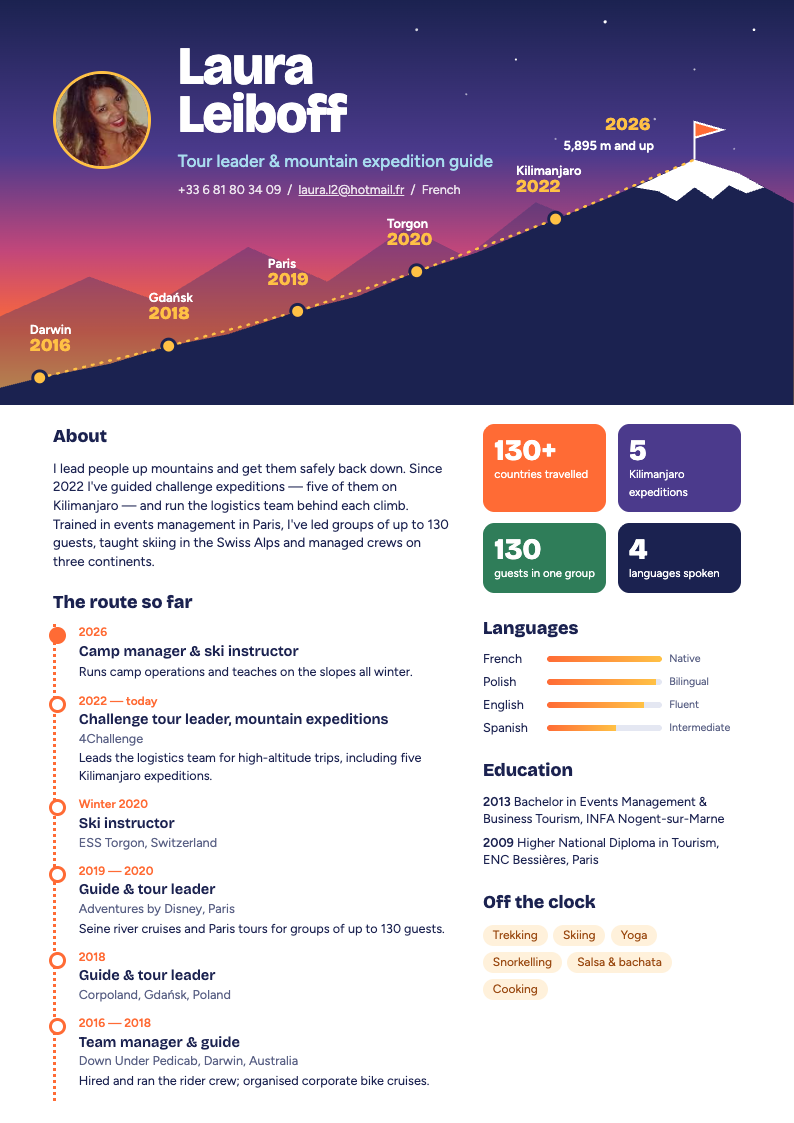
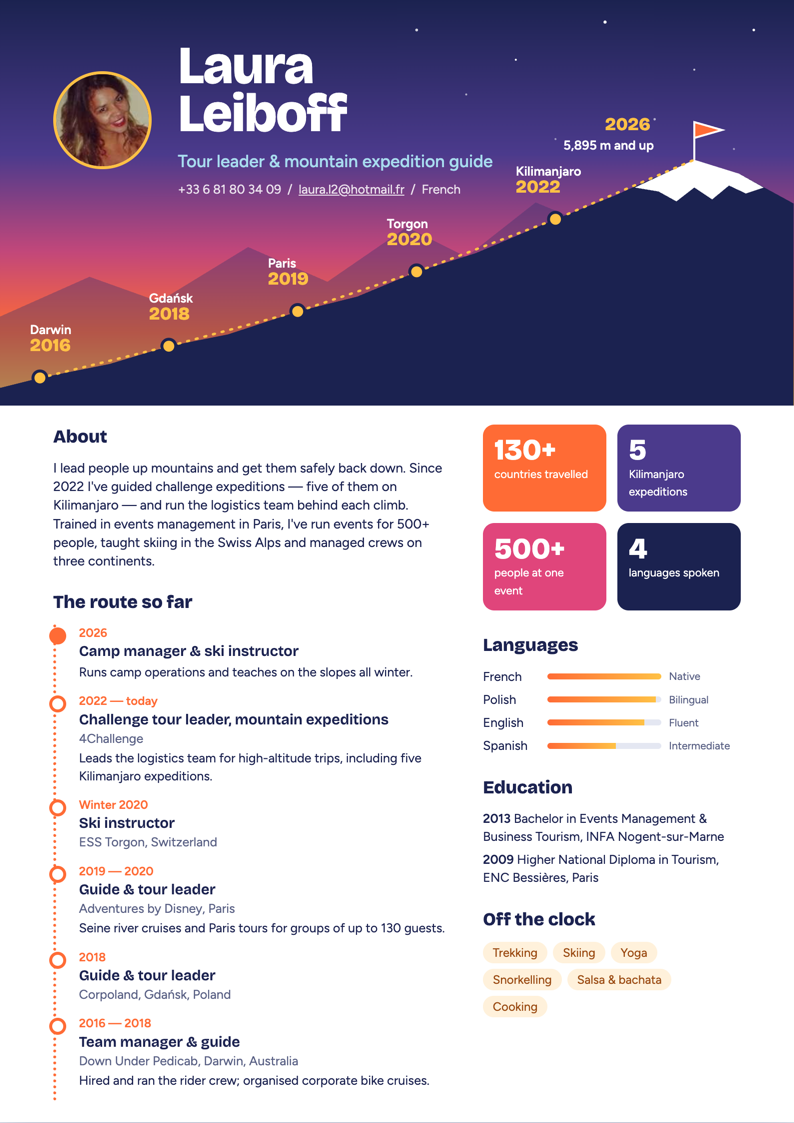
Update Claude CV stats and remove old working copy
Swap the "130 guests" stat for "500+ people at one event" (pink tile in
Summit), update the about copy to match, and refresh the gallery previews.
Drop cv-claude-version/, now duplicated by cv-designs/claude/, keeping the
original 2020 CV PDF in source/.

diff --git a/claude/1-summit.html b/claude/1-summit.html
@@ -14,7 +14,7 @@
     --sunrise: #FF6B35;
     --savanna: #FFC145;
     --glacier: #A8DCEF;
-    --acacia: #2F7D59;
+    --pink: #E0457B;
     --ink: #1B2250;
     --muted: #5A6185;
     --paper: #FFFFFF;
@@ -109,7 +109,7 @@
   }
   .stat:nth-child(1) { background: var(--sunrise); }
   .stat:nth-child(2) { background: var(--dusk); }
-  .stat:nth-child(3) { background: var(--acacia); }
+  .stat:nth-child(3) { background: var(--pink); }
   .stat:nth-child(4) { background: var(--night); }
   .stat b { display: block; font-family: "Bricolage Grotesque", sans-serif; font-size: 22pt; line-height: 1; }
   .stat span { font-size: 8.5pt; }
@@ -188,7 +188,7 @@
   <div class="body">
     <section>
       <h2>About</h2>
-      <p class="about">I lead people up mountains and get them safely back down. Since 2022 I've guided challenge expeditions — five of them on Kilimanjaro — and run the logistics team behind each climb. Trained in events management in Paris, I've led groups of up to 130 guests, taught skiing in the Swiss Alps and managed crews on three continents.</p>
+      <p class="about">I lead people up mountains and get them safely back down. Since 2022 I've guided challenge expeditions — five of them on Kilimanjaro — and run the logistics team behind each climb. Trained in events management in Paris, I've run events for 500+ people, taught skiing in the Swiss Alps and managed crews on three continents.</p>
 
       <h2>The route so far</h2>
       <ol class="route" reversed>
@@ -232,7 +232,7 @@
       <div class="stats">
         <div class="stat"><b>130+</b><span>countries travelled</span></div>
         <div class="stat"><b>5</b><span>Kilimanjaro expeditions</span></div>
-        <div class="stat"><b>130</b><span>guests in one group</span></div>
+        <div class="stat"><b>500+</b><span>people at one event</span></div>
         <div class="stat"><b>4</b><span>languages spoken</span></div>
       </div>
 

diff --git a/claude/2-passport.html b/claude/2-passport.html
@@ -163,7 +163,7 @@
     <div class="mrz" aria-hidden="true">P&lt;FRALEIBOFF&lt;&lt;LAURA&lt;&lt;&lt;&lt;&lt;&lt;&lt;&lt;&lt;&lt;&lt;&lt;&lt;&lt;&lt;&lt;&lt;&lt;&lt;&lt;&lt;&lt;&lt;&lt;&lt;<br>TOURLEADER&lt;KILIMANJARO&lt;130COUNTRIES&lt;&lt;&lt;&lt;&lt;&lt;</div>
   </section>
 
-  <p class="about">I lead people up mountains and get them safely back down. Since 2022 I've guided challenge expeditions — five of them on Kilimanjaro — and run the logistics team behind each climb. Trained in events management in Paris, I've led groups of up to 130 guests, taught skiing in the Swiss Alps and managed crews on three continents.</p>
+  <p class="about">I lead people up mountains and get them safely back down. Since 2022 I've guided challenge expeditions — five of them on Kilimanjaro — and run the logistics team behind each climb. Trained in events management in Paris, I've run events for 500+ people, taught skiing in the Swiss Alps and managed crews on three continents.</p>
 
   <h2>Entries &amp; exits</h2>
   <div class="stamps">

diff --git a/claude/3-riso.html b/claude/3-riso.html
@@ -141,7 +141,7 @@
   <p class="tagline">Tour leader &amp; mountain expedition guide</p>
   <p class="contact">+33 6 81 80 34 09 &nbsp;/&nbsp; laura.l2@hotmail.fr &nbsp;/&nbsp; French</p>
 
-  <p class="about">I lead people up mountains and get them safely back down. Since 2022 I've guided challenge expeditions — five of them on Kilimanjaro — and run the logistics team behind each climb. Trained in events management in Paris, I've led groups of up to 130 guests, taught skiing in the Swiss Alps and managed crews on three continents.</p>
+  <p class="about">I lead people up mountains and get them safely back down. Since 2022 I've guided challenge expeditions — five of them on Kilimanjaro — and run the logistics team behind each climb. Trained in events management in Paris, I've run events for 500+ people, taught skiing in the Swiss Alps and managed crews on three continents.</p>
 
   <div class="cols">
     <section>

diff --git a/claude/4-piste.html b/claude/4-piste.html
@@ -197,7 +197,7 @@
       <div class="board">
         <div><b>130+</b><span>countries travelled</span></div>
         <div><b>5×</b><span>Kilimanjaro</span></div>
-        <div><b>130</b><span>guests in one group</span></div>
+        <div><b>500+</b><span>people at one event</span></div>
         <div><b>4</b><span>languages</span></div>
       </div>
       <section>
